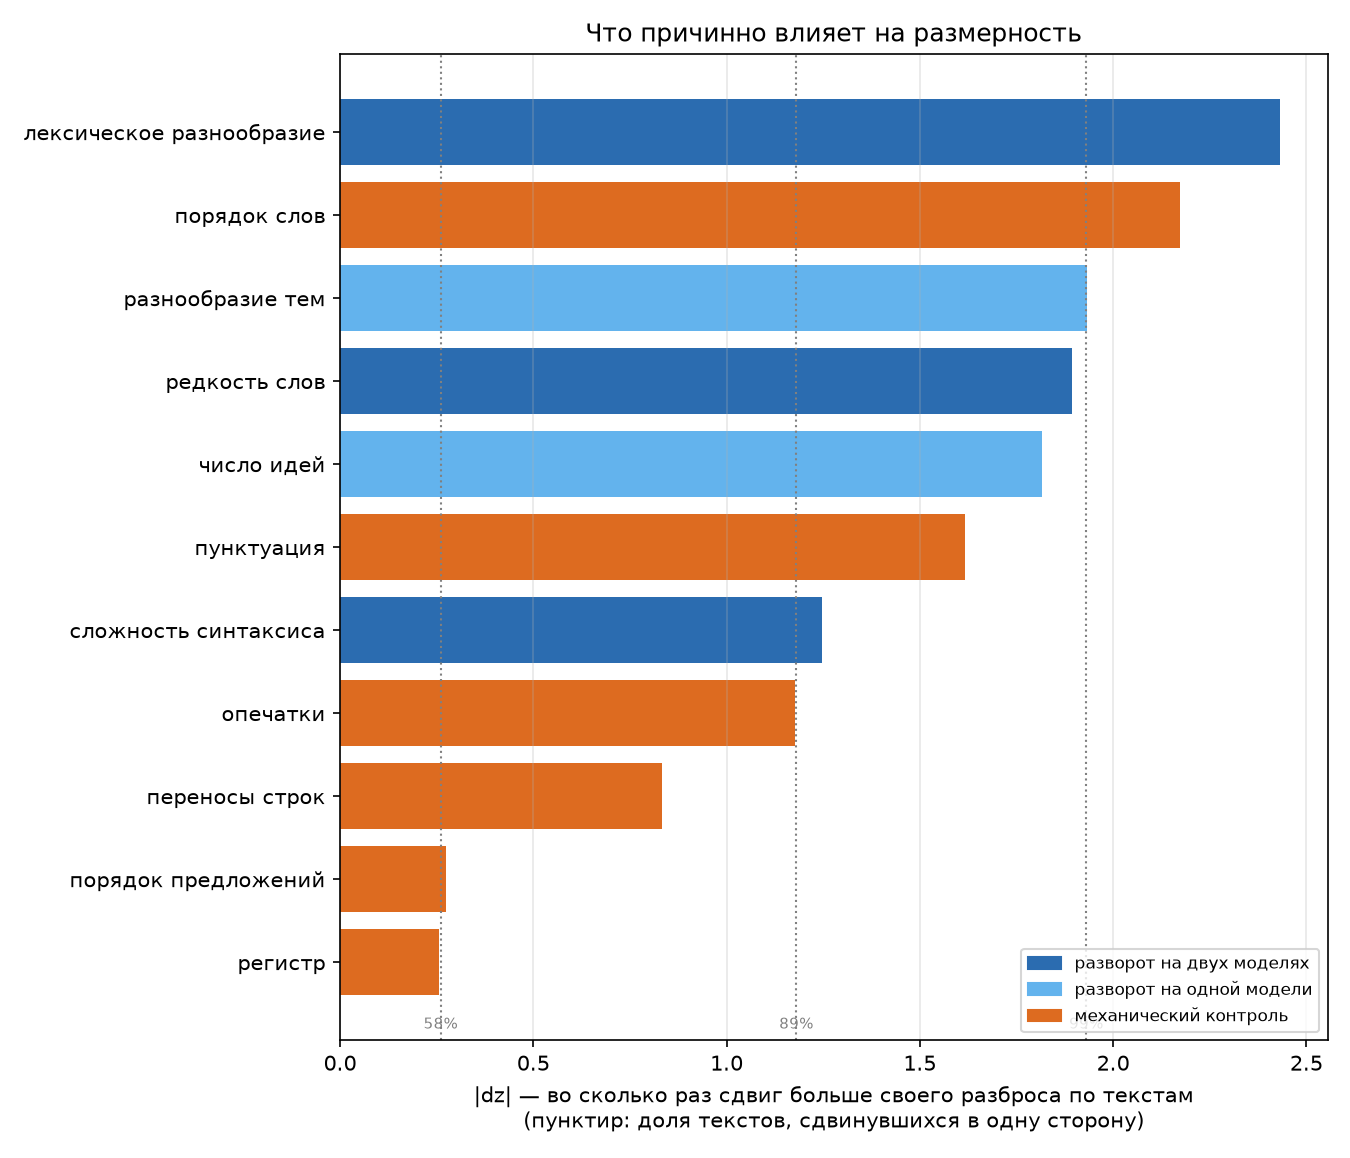
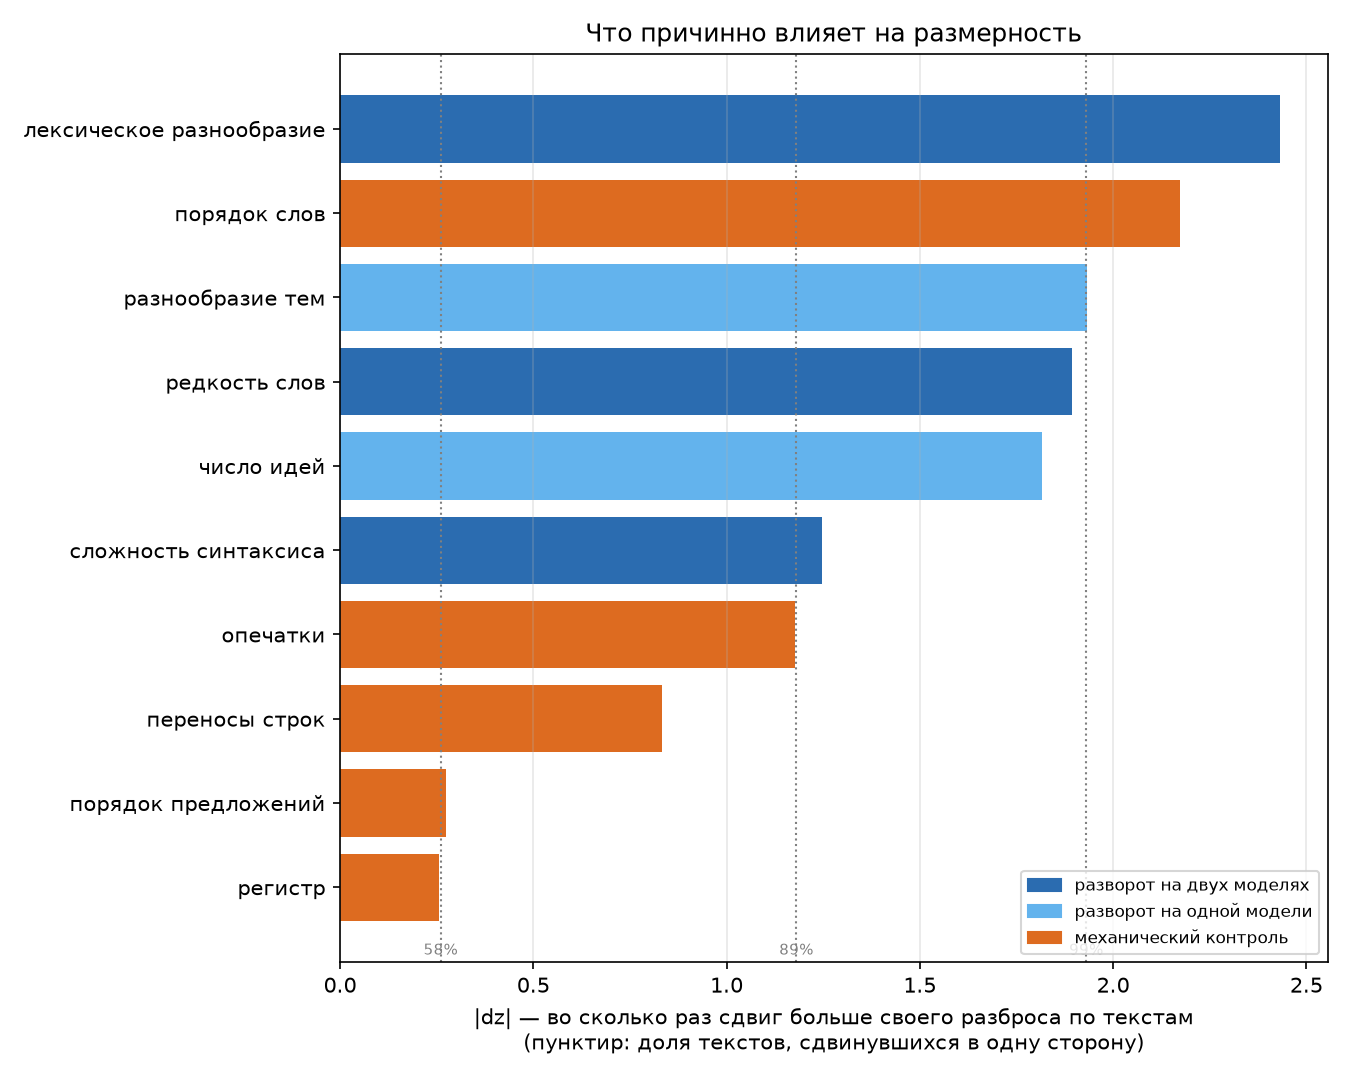
Drop punctuation stripping from the causal ranking: the effect is tautological
strip_punctuation is not a clean manipulation of one property. It deletes ~11%
of the tokens, and measurement shows those tokens sit 1.5x closer to their
nearest neighbour than the rest (11.5 against 17.4) -- they are the densest
clusters in the cloud and the source of the shortest MST edges. q_large keeps
precisely the short edges, so its +25.3% there largely reports that we deleted
the population that regime is built from, not that punctuation governs
dimension. It also fragments words ("don't" -> "don t", "non-invasive" -> "non
invasive"), adding short edges of its own, and erases sentence boundaries.

It stays in the tables, marked, and is excluded from the causal figure. A clean
test of the same question would swap punctuation marks for other punctuation,
or insert them, rather than removing tokens outright.

diff --git a/phdq_ext/scripts/causal_summary.py b/phdq_ext/scripts/causal_summary.py
@@ -64,9 +64,15 @@ PROPERTIES = {
         "arms": {},
         "mechanical": ("shuffle_sentences", None),
     },
-    "пунктуация": {
+    # Excluded from the ranking on purpose: stripping punctuation deletes ~11%
+    # of the tokens, and those are the densest cluster in the cloud, so at
+    # q_large it removes the very population that regime measures. The large
+    # effect is close to tautological rather than a property of the text.
+    # Kept in the tables, out of the causal figure. See perturb.py.
+    "пунктуация (не интерпретируется)": {
         "arms": {},
         "mechanical": ("strip_punctuation", None),
+        "exclude_from_ranking": True,
     },
     "опечатки": {
         "arms": {},
@@ -113,6 +119,8 @@ def plot_ranking(res):
     """Properties ranked by |dz|, marked by what kind of evidence backs them."""
     rows = []
     for _, r in res.iterrows():
+        if r.get("исключено"):
+            continue
         dz = r.get("dz_макс")
         mech = r.get("механ_dz")
         if pd.notna(dz):
@@ -161,7 +169,8 @@ def main():
 
     rows = []
     for prop, spec in PROPERTIES.items():
-        rec = {"свойство": prop}
+        rec = {"свойство": prop,
+               "исключено": spec.get("exclude_from_ranking", False)}
         signs, peaks = [], []
         for model, (up, down) in spec["arms"].items():
             eu, ed = arm_effect(p, up), arm_effect(p, down)

diff --git a/phdq_ext/scripts/perturb.py b/phdq_ext/scripts/perturb.py
@@ -162,7 +162,18 @@ def lowercase(text, rng):
 
 
 def strip_punctuation(text, rng):
-    """Remove punctuation, keeping words and spaces."""
+    """Remove punctuation, keeping words and spaces.
+
+    Interpret the result with care: this is not a clean manipulation of one
+    property. It deletes ~11% of the tokens, and those tokens sit 1.5x closer
+    to their nearest neighbour than the rest (11.5 against 17.4), i.e. they are
+    the tightest clusters in the cloud and the source of the shortest MST
+    edges. Removing them therefore removes most of what the fine-scale regime
+    (q_large) measures, so the large effect there is close to tautological.
+    It also fragments words: "don't" -> "don t", "non-invasive" -> "non
+    invasive", which adds short edges of its own, and it erases sentence
+    boundaries.
+    """
     return re.sub(r"\s+", " ", re.sub(r"[^\w\s]", " ", text)).strip()
 
 
